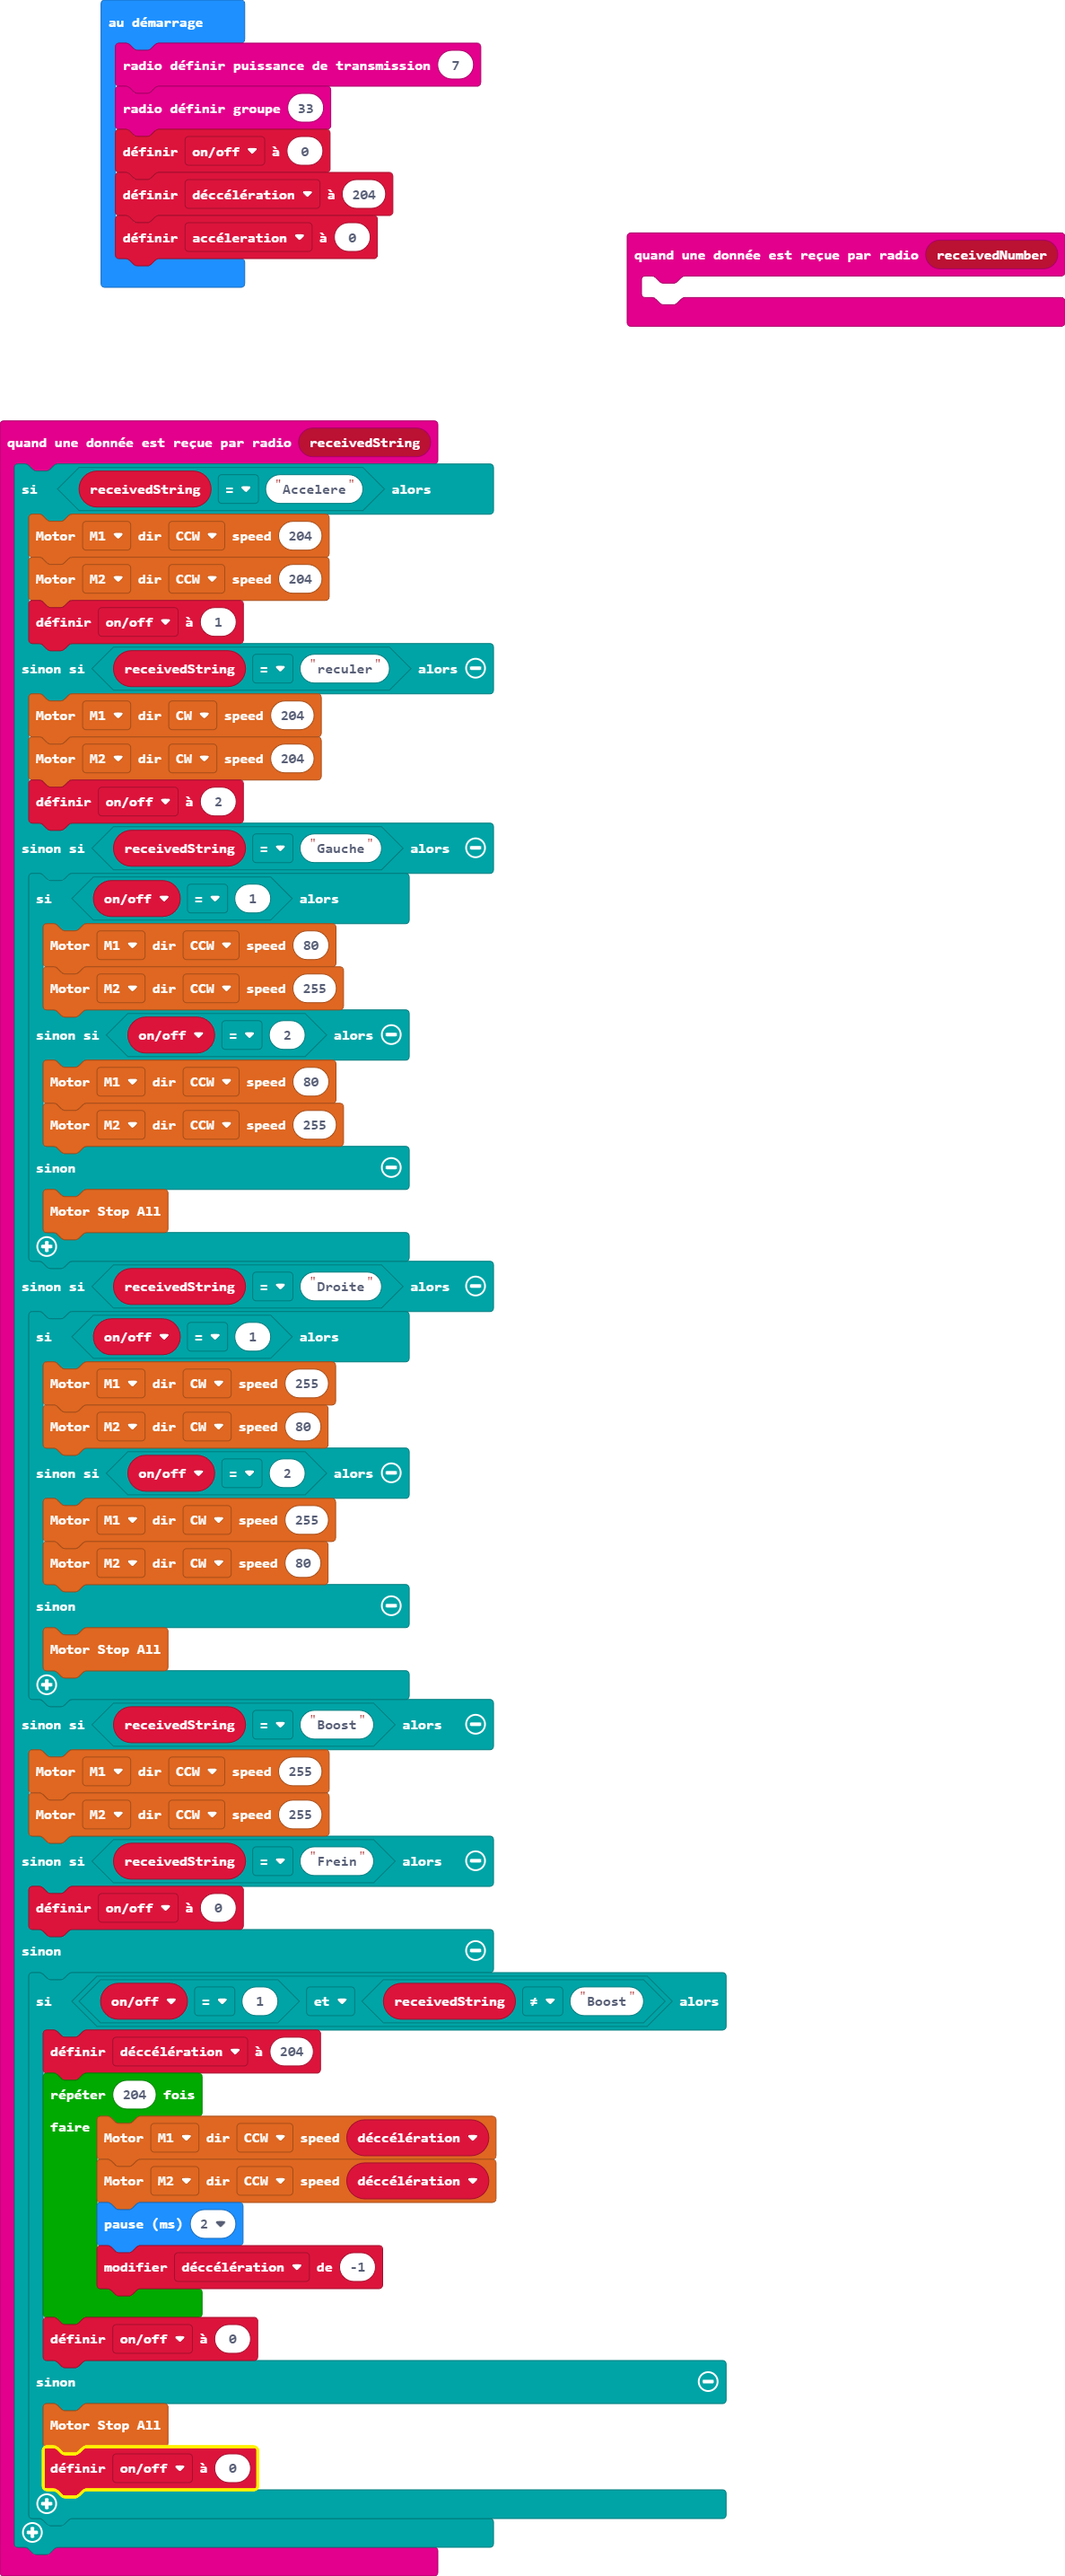
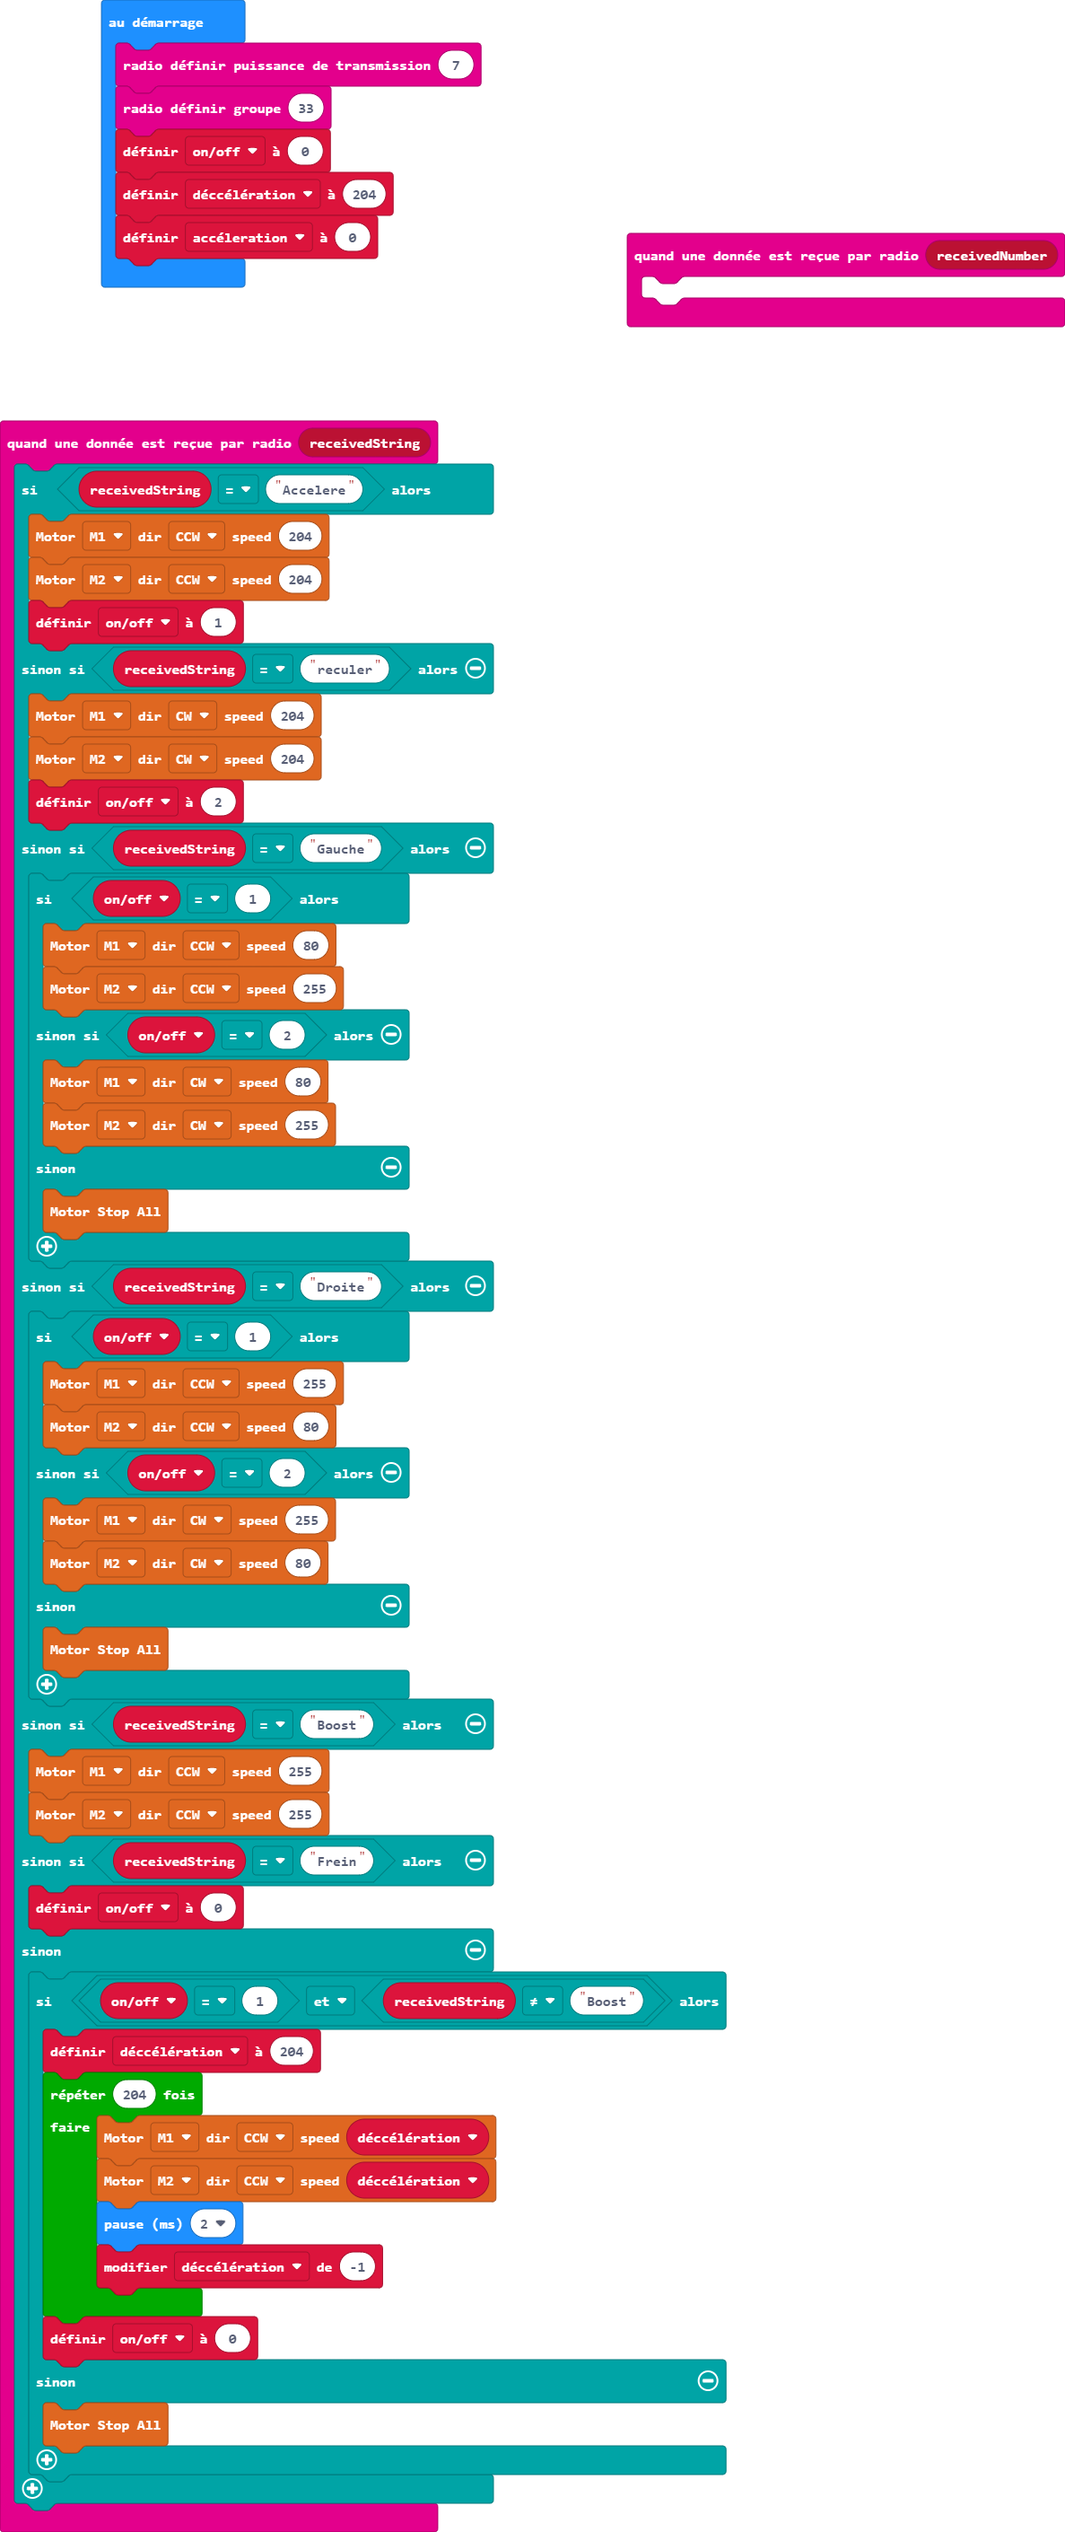
Mise à jour pxt.json, main.blocks, main.ts, main.py

diff --git a/main.ts b/main.ts
@@ -15,15 +15,15 @@ radio.onReceivedString(function (receivedString) {
             motor.MotorRun(motor.Motors.M1, motor.Dir.CCW, 80)
             motor.MotorRun(motor.Motors.M2, motor.Dir.CCW, 255)
         } else if (onoff == 2) {
-            motor.MotorRun(motor.Motors.M1, motor.Dir.CCW, 80)
-            motor.MotorRun(motor.Motors.M2, motor.Dir.CCW, 255)
+            motor.MotorRun(motor.Motors.M1, motor.Dir.CW, 80)
+            motor.MotorRun(motor.Motors.M2, motor.Dir.CW, 255)
         } else {
             motor.motorStopAll()
         }
     } else if (receivedString == "Droite") {
         if (onoff == 1) {
-            motor.MotorRun(motor.Motors.M1, motor.Dir.CW, 255)
-            motor.MotorRun(motor.Motors.M2, motor.Dir.CW, 80)
+            motor.MotorRun(motor.Motors.M1, motor.Dir.CCW, 255)
+            motor.MotorRun(motor.Motors.M2, motor.Dir.CCW, 80)
         } else if (onoff == 2) {
             motor.MotorRun(motor.Motors.M1, motor.Dir.CW, 255)
             motor.MotorRun(motor.Motors.M2, motor.Dir.CW, 80)
@@ -47,7 +47,6 @@ radio.onReceivedString(function (receivedString) {
             onoff = 0
         } else {
             motor.motorStopAll()
-            onoff = 0
         }
     }
 })

diff --git a/main.py b/main.py
@@ -1,0 +1,57 @@
+def on_received_number(receivedNumber):
+    pass
+radio.on_received_number(on_received_number)
+
+def on_received_string(receivedString):
+    global onoff, déccélération
+    if receivedString == "Accelere":
+        motor.motor_run(motor.Motors.M1, motor.Dir.CCW, 204)
+        motor.motor_run(motor.Motors.M2, motor.Dir.CCW, 204)
+        onoff = 1
+    elif receivedString == "reculer":
+        motor.motor_run(motor.Motors.M1, motor.Dir.CW, 204)
+        motor.motor_run(motor.Motors.M2, motor.Dir.CW, 204)
+        onoff = 2
+    elif receivedString == "Gauche":
+        if onoff == 1:
+            motor.motor_run(motor.Motors.M1, motor.Dir.CCW, 80)
+            motor.motor_run(motor.Motors.M2, motor.Dir.CCW, 255)
+        elif onoff == 2:
+            motor.motor_run(motor.Motors.M1, motor.Dir.CW, 80)
+            motor.motor_run(motor.Motors.M2, motor.Dir.CW, 255)
+        else:
+            motor.motor_stop_all()
+    elif receivedString == "Droite":
+        if onoff == 1:
+            motor.motor_run(motor.Motors.M1, motor.Dir.CCW, 255)
+            motor.motor_run(motor.Motors.M2, motor.Dir.CCW, 80)
+        elif onoff == 2:
+            motor.motor_run(motor.Motors.M1, motor.Dir.CW, 255)
+            motor.motor_run(motor.Motors.M2, motor.Dir.CW, 80)
+        else:
+            motor.motor_stop_all()
+    elif receivedString == "Boost":
+        motor.motor_run(motor.Motors.M1, motor.Dir.CCW, 255)
+        motor.motor_run(motor.Motors.M2, motor.Dir.CCW, 255)
+    elif receivedString == "Frein":
+        onoff = 0
+    else:
+        if onoff == 1 and receivedString != "Boost":
+            déccélération = 204
+            for index in range(204):
+                motor.motor_run(motor.Motors.M1, motor.Dir.CCW, déccélération)
+                motor.motor_run(motor.Motors.M2, motor.Dir.CCW, déccélération)
+                basic.pause(2)
+                déccélération += -1
+            onoff = 0
+        else:
+            motor.motor_stop_all()
+radio.on_received_string(on_received_string)
+
+déccélération = 0
+onoff = 0
+radio.set_transmit_power(7)
+radio.set_group(33)
+onoff = 0
+déccélération = 204
+accéleration = 0
